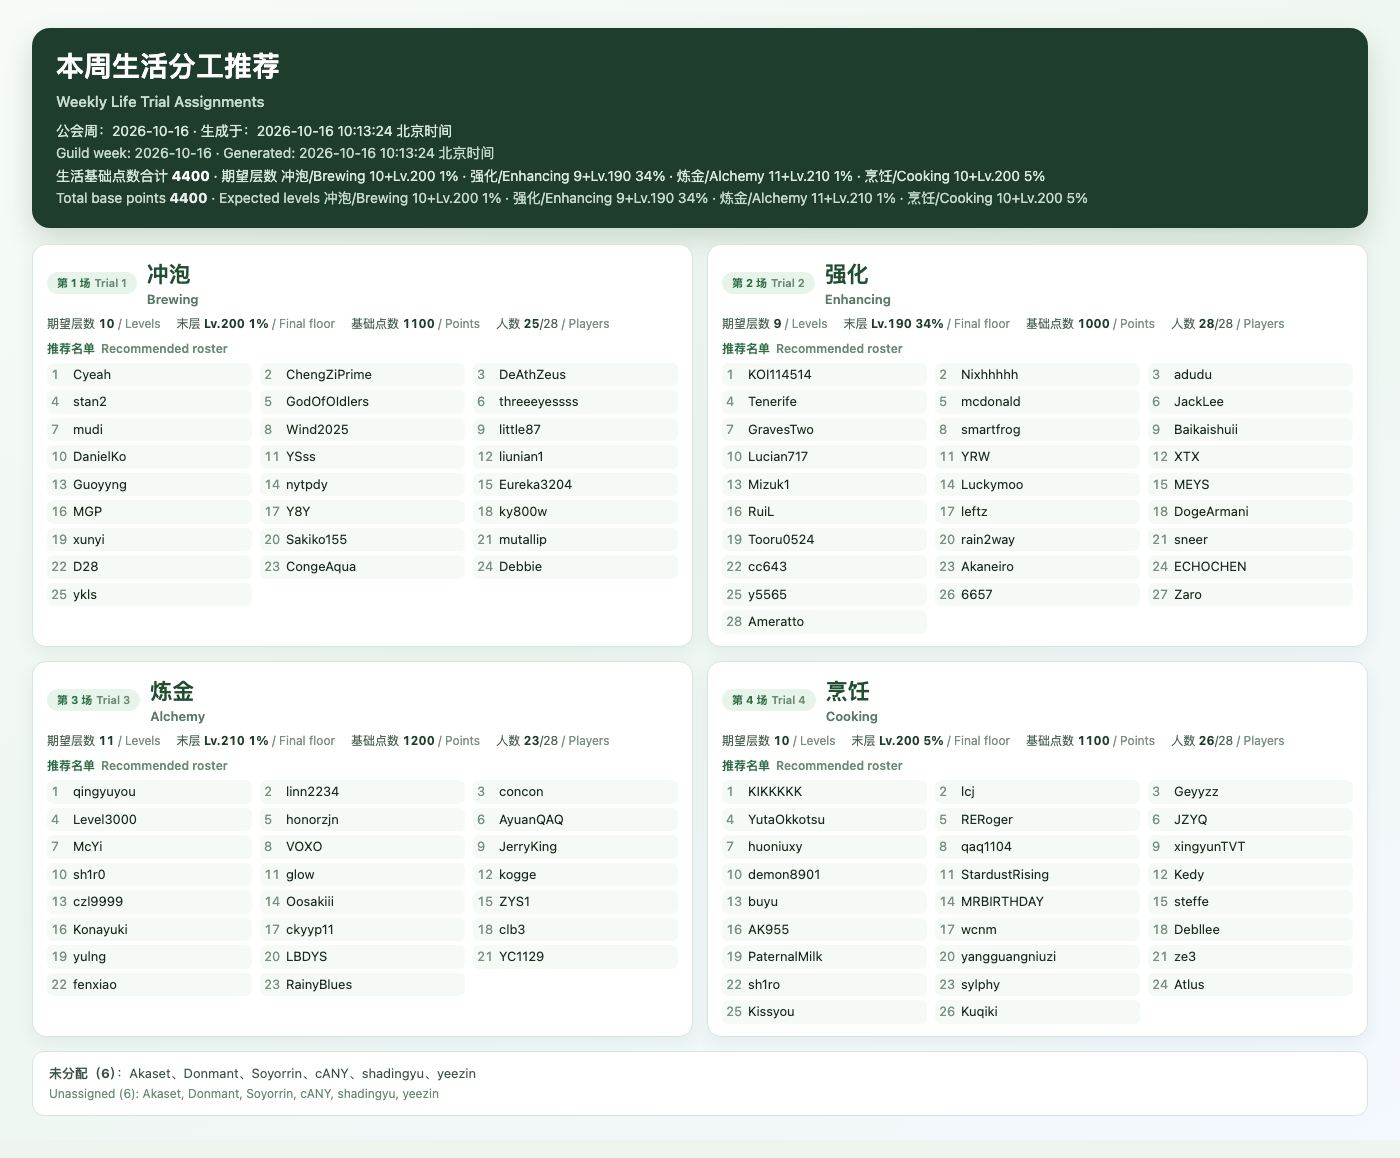
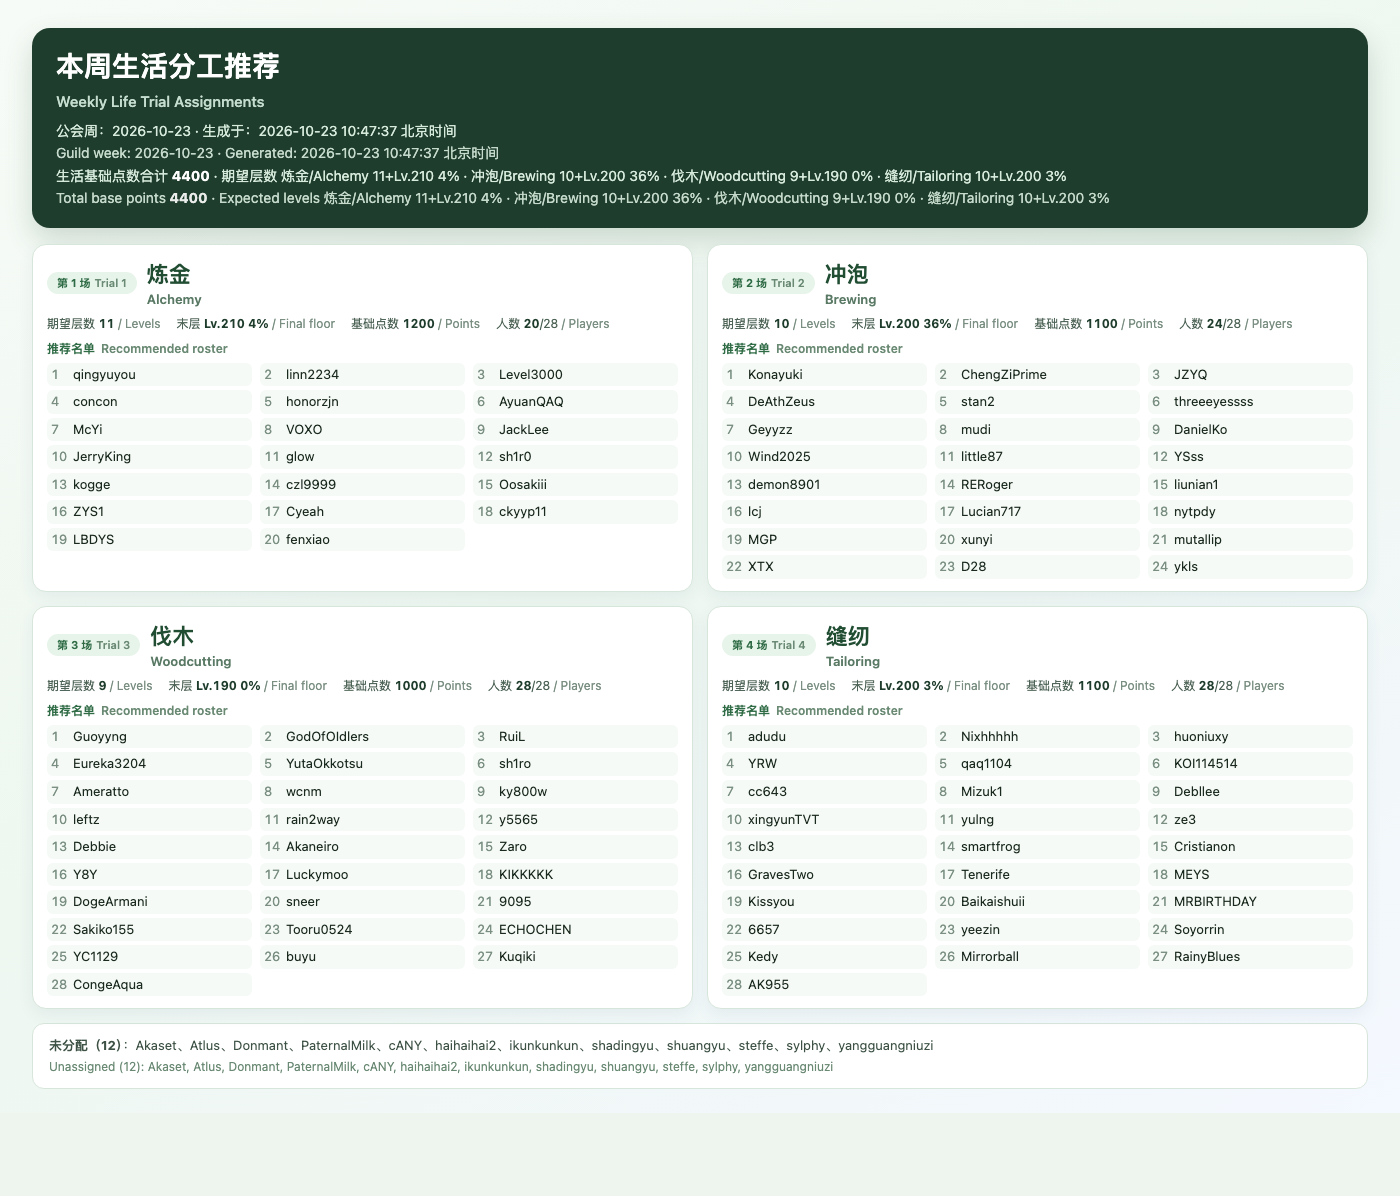
chore: refresh life assignment report (2026-10-23T00:00:00.000Z, 4400 pts)

diff --git a/reports/combat-assignment/index.html b/reports/combat-assignment/index.html
@@ -162,7 +162,7 @@
 TMD：每场上限60；按三 seed 平均通关层数优先，同层比较末层进度；死亡和团灭不淘汰，仍如实记录。
 自然输出：水母为增幅/精确/生命吸取/缠绕；虫群为增幅/粉尘/菌幕/缠绕。</pre>
   <nav class="tabs" aria-label="Weekly assignment images">
-      <button type="button" class="tab active" data-index="0" data-src-zh="../life-assignment/latest.png" data-src-en="../life-assignment/latest.png" data-label-zh="生活分工" data-label-en="Life Trials"><span class="i18n" data-zh="生活分工" data-en="Life Trials">生活分工</span></button>
+      <button type="button" class="tab active" data-index="0" data-src-zh="../life-assignment/latest.png?v=2026-10-23T02%3A47%3A37.581Z" data-src-en="../life-assignment/latest.png?v=2026-10-23T02%3A47%3A37.581Z" data-label-zh="生活分工" data-label-en="Life Trials"><span class="i18n" data-zh="生活分工" data-en="Life Trials">生活分工</span></button>
       <button type="button" class="tab" data-index="1" data-src-zh="1-jellyfish-summary.png?v=2026-10-23T02%3A25%3A49.828Z" data-src-en="1-jellyfish-summary.en.png?v=2026-10-23T02%3A25%3A49.828Z" data-label-zh="水母 · 阵容与技能" data-label-en="Trial Jellyfish · Roster &amp; Skills"><span class="i18n" data-zh="水母 · 阵容与技能" data-en="Trial Jellyfish · Roster &amp; Skills">水母 · 阵容与技能</span></button>
       <button type="button" class="tab" data-index="2" data-src-zh="1-jellyfish-members.png?v=2026-10-23T02%3A25%3A49.828Z" data-src-en="1-jellyfish-members.en.png?v=2026-10-23T02%3A25%3A49.828Z" data-label-zh="水母 · 成员明细" data-label-en="Trial Jellyfish · 60 Member Breakdown"><span class="i18n" data-zh="水母 · 成员明细" data-en="Trial Jellyfish · 60 Member Breakdown">水母 · 成员明细</span></button>
       <button type="button" class="tab" data-index="3" data-src-zh="2-swarm-summary.png?v=2026-10-23T02%3A25%3A49.828Z" data-src-en="2-swarm-summary.en.png?v=2026-10-23T02%3A25%3A49.828Z" data-label-zh="虫群 · 阵容与技能" data-label-en="Trial Swarm · Roster &amp; Skills"><span class="i18n" data-zh="虫群 · 阵容与技能" data-en="Trial Swarm · Roster &amp; Skills">虫群 · 阵容与技能</span></button>

diff --git a/reports/life-assignment/README.md b/reports/life-assignment/README.md
@@ -1,7 +1,7 @@
 # 本周生活分工
 
-- 公会周：`2026-10-16T00:00:00.000Z`
-- 生成时间：`2026-10-16T02:13:24.525Z`
+- 公会周：`2026-10-23T00:00:00.000Z`
+- 生成时间：`2026-10-23T02:47:37.581Z`
 - 基础点数合计：`4400`
 
 图片：https://raw.githubusercontent.com/xiahuaaaa/mwi-guild-trial-helper/main/reports/life-assignment/latest.png
